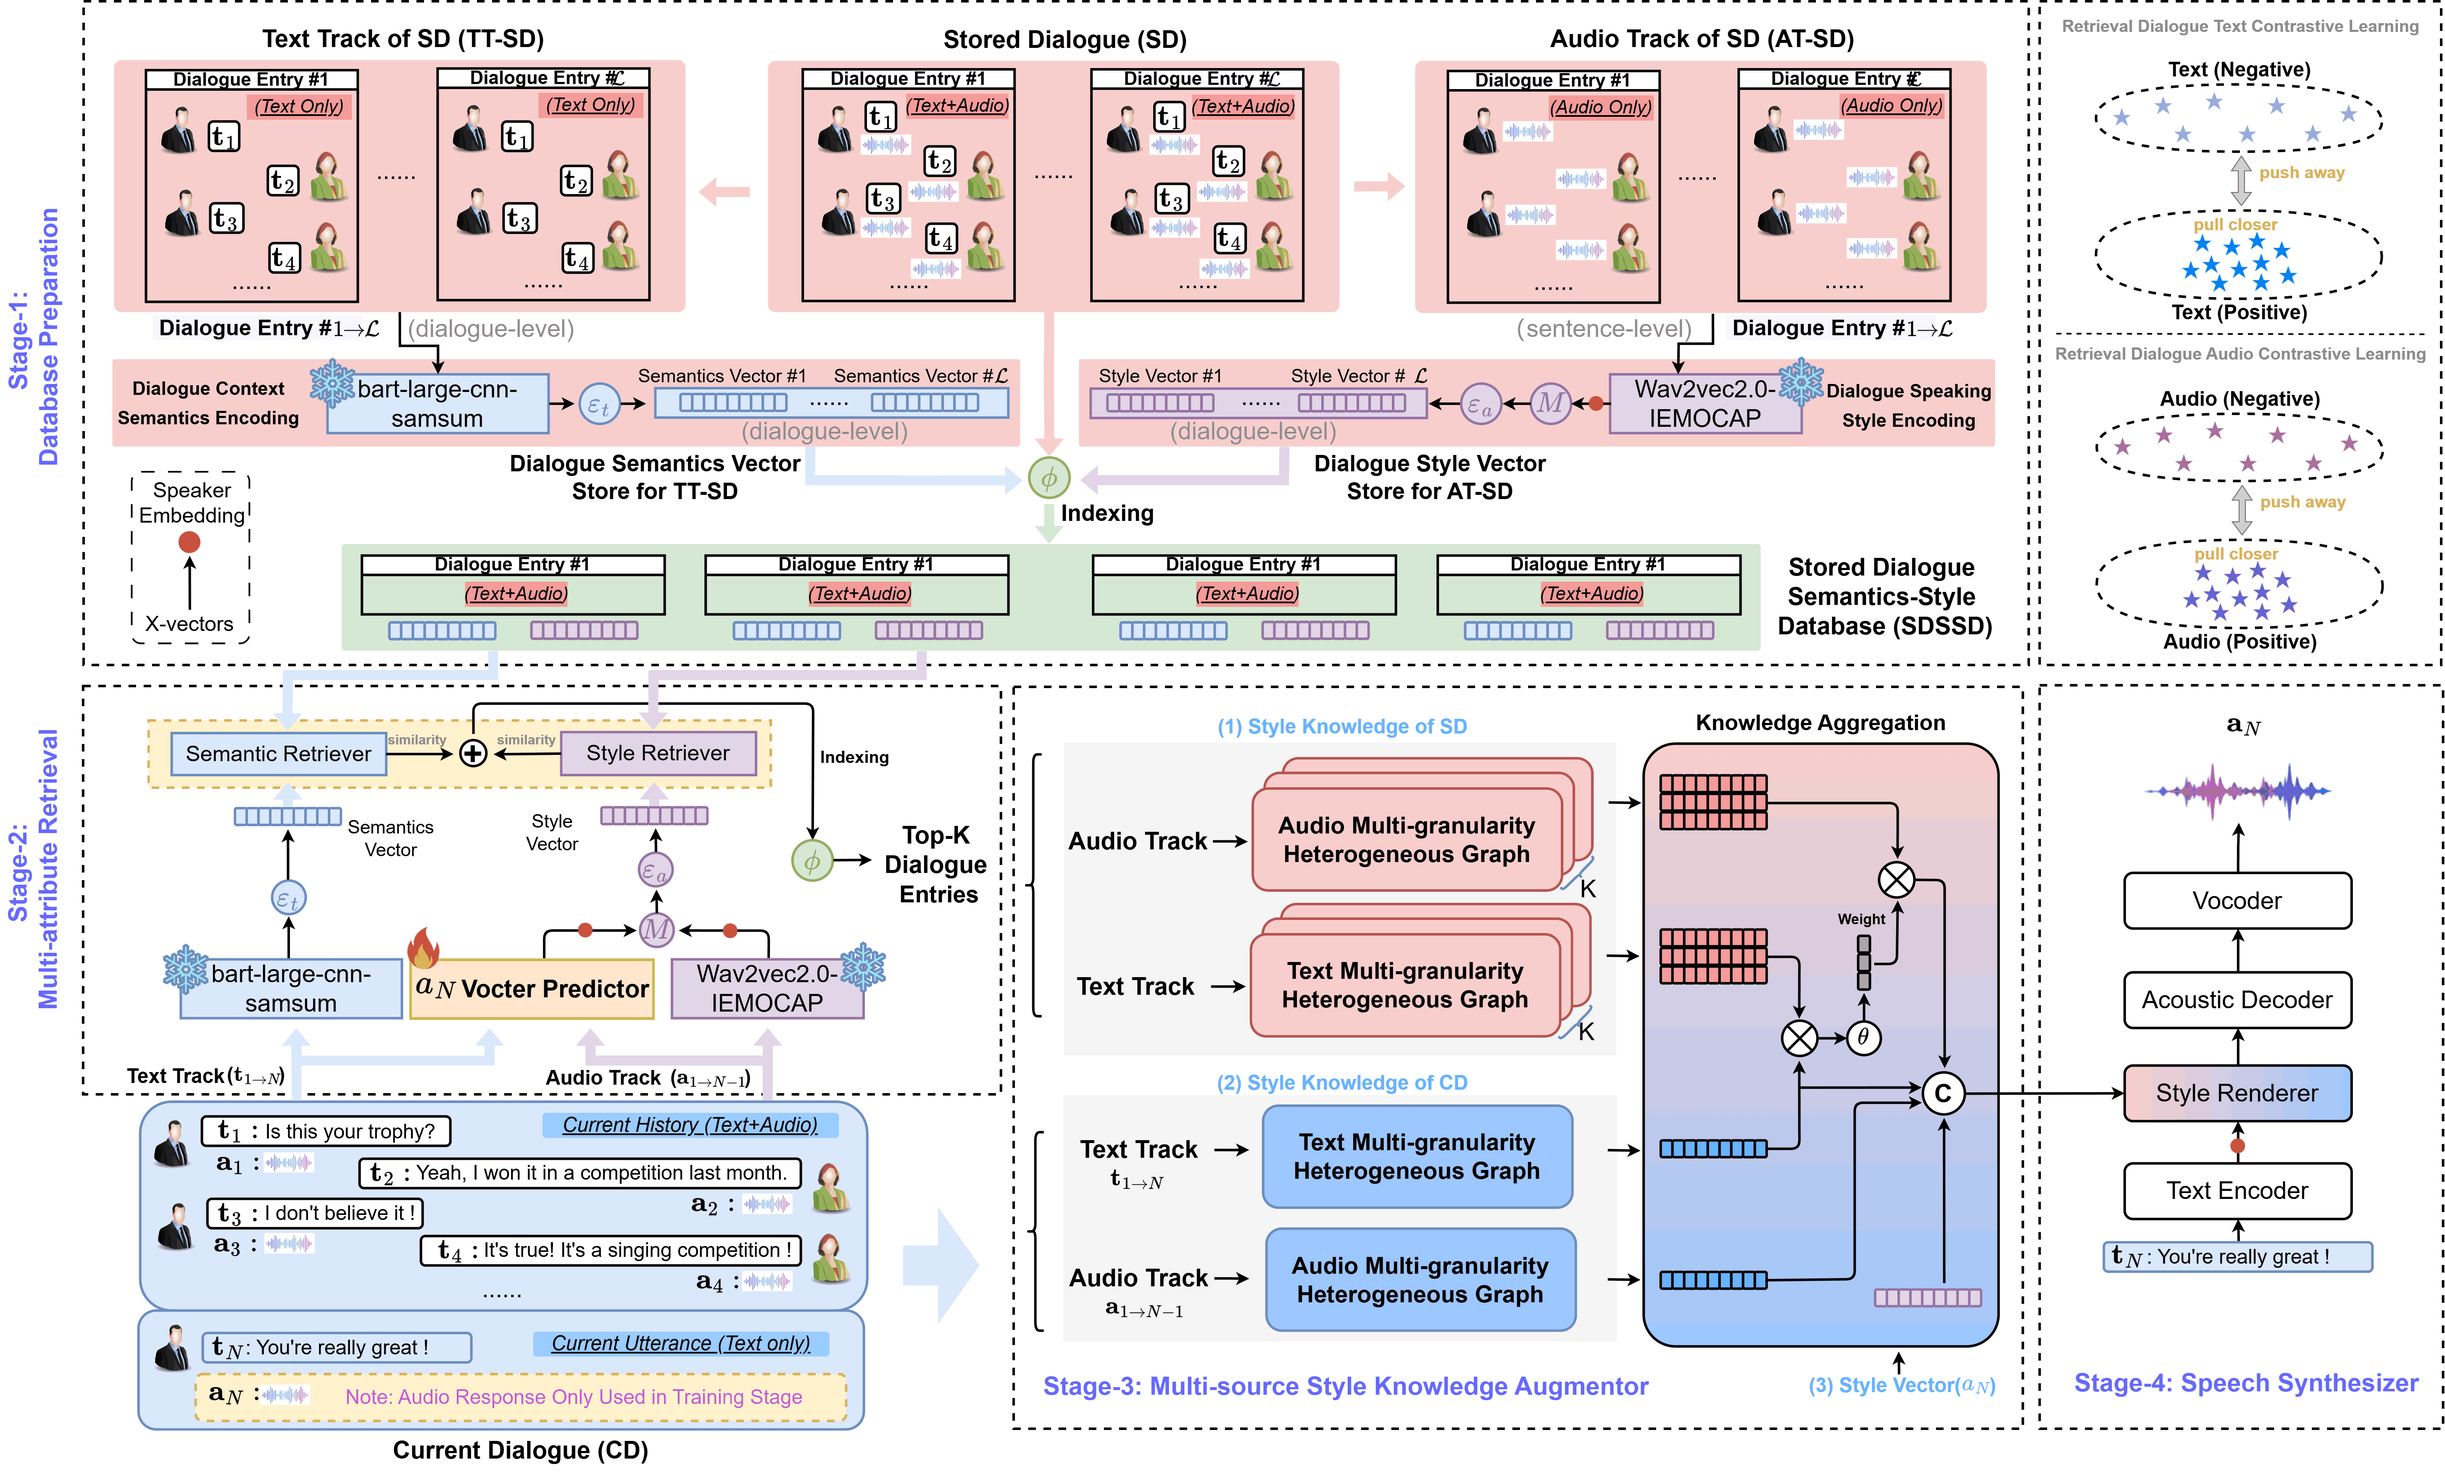
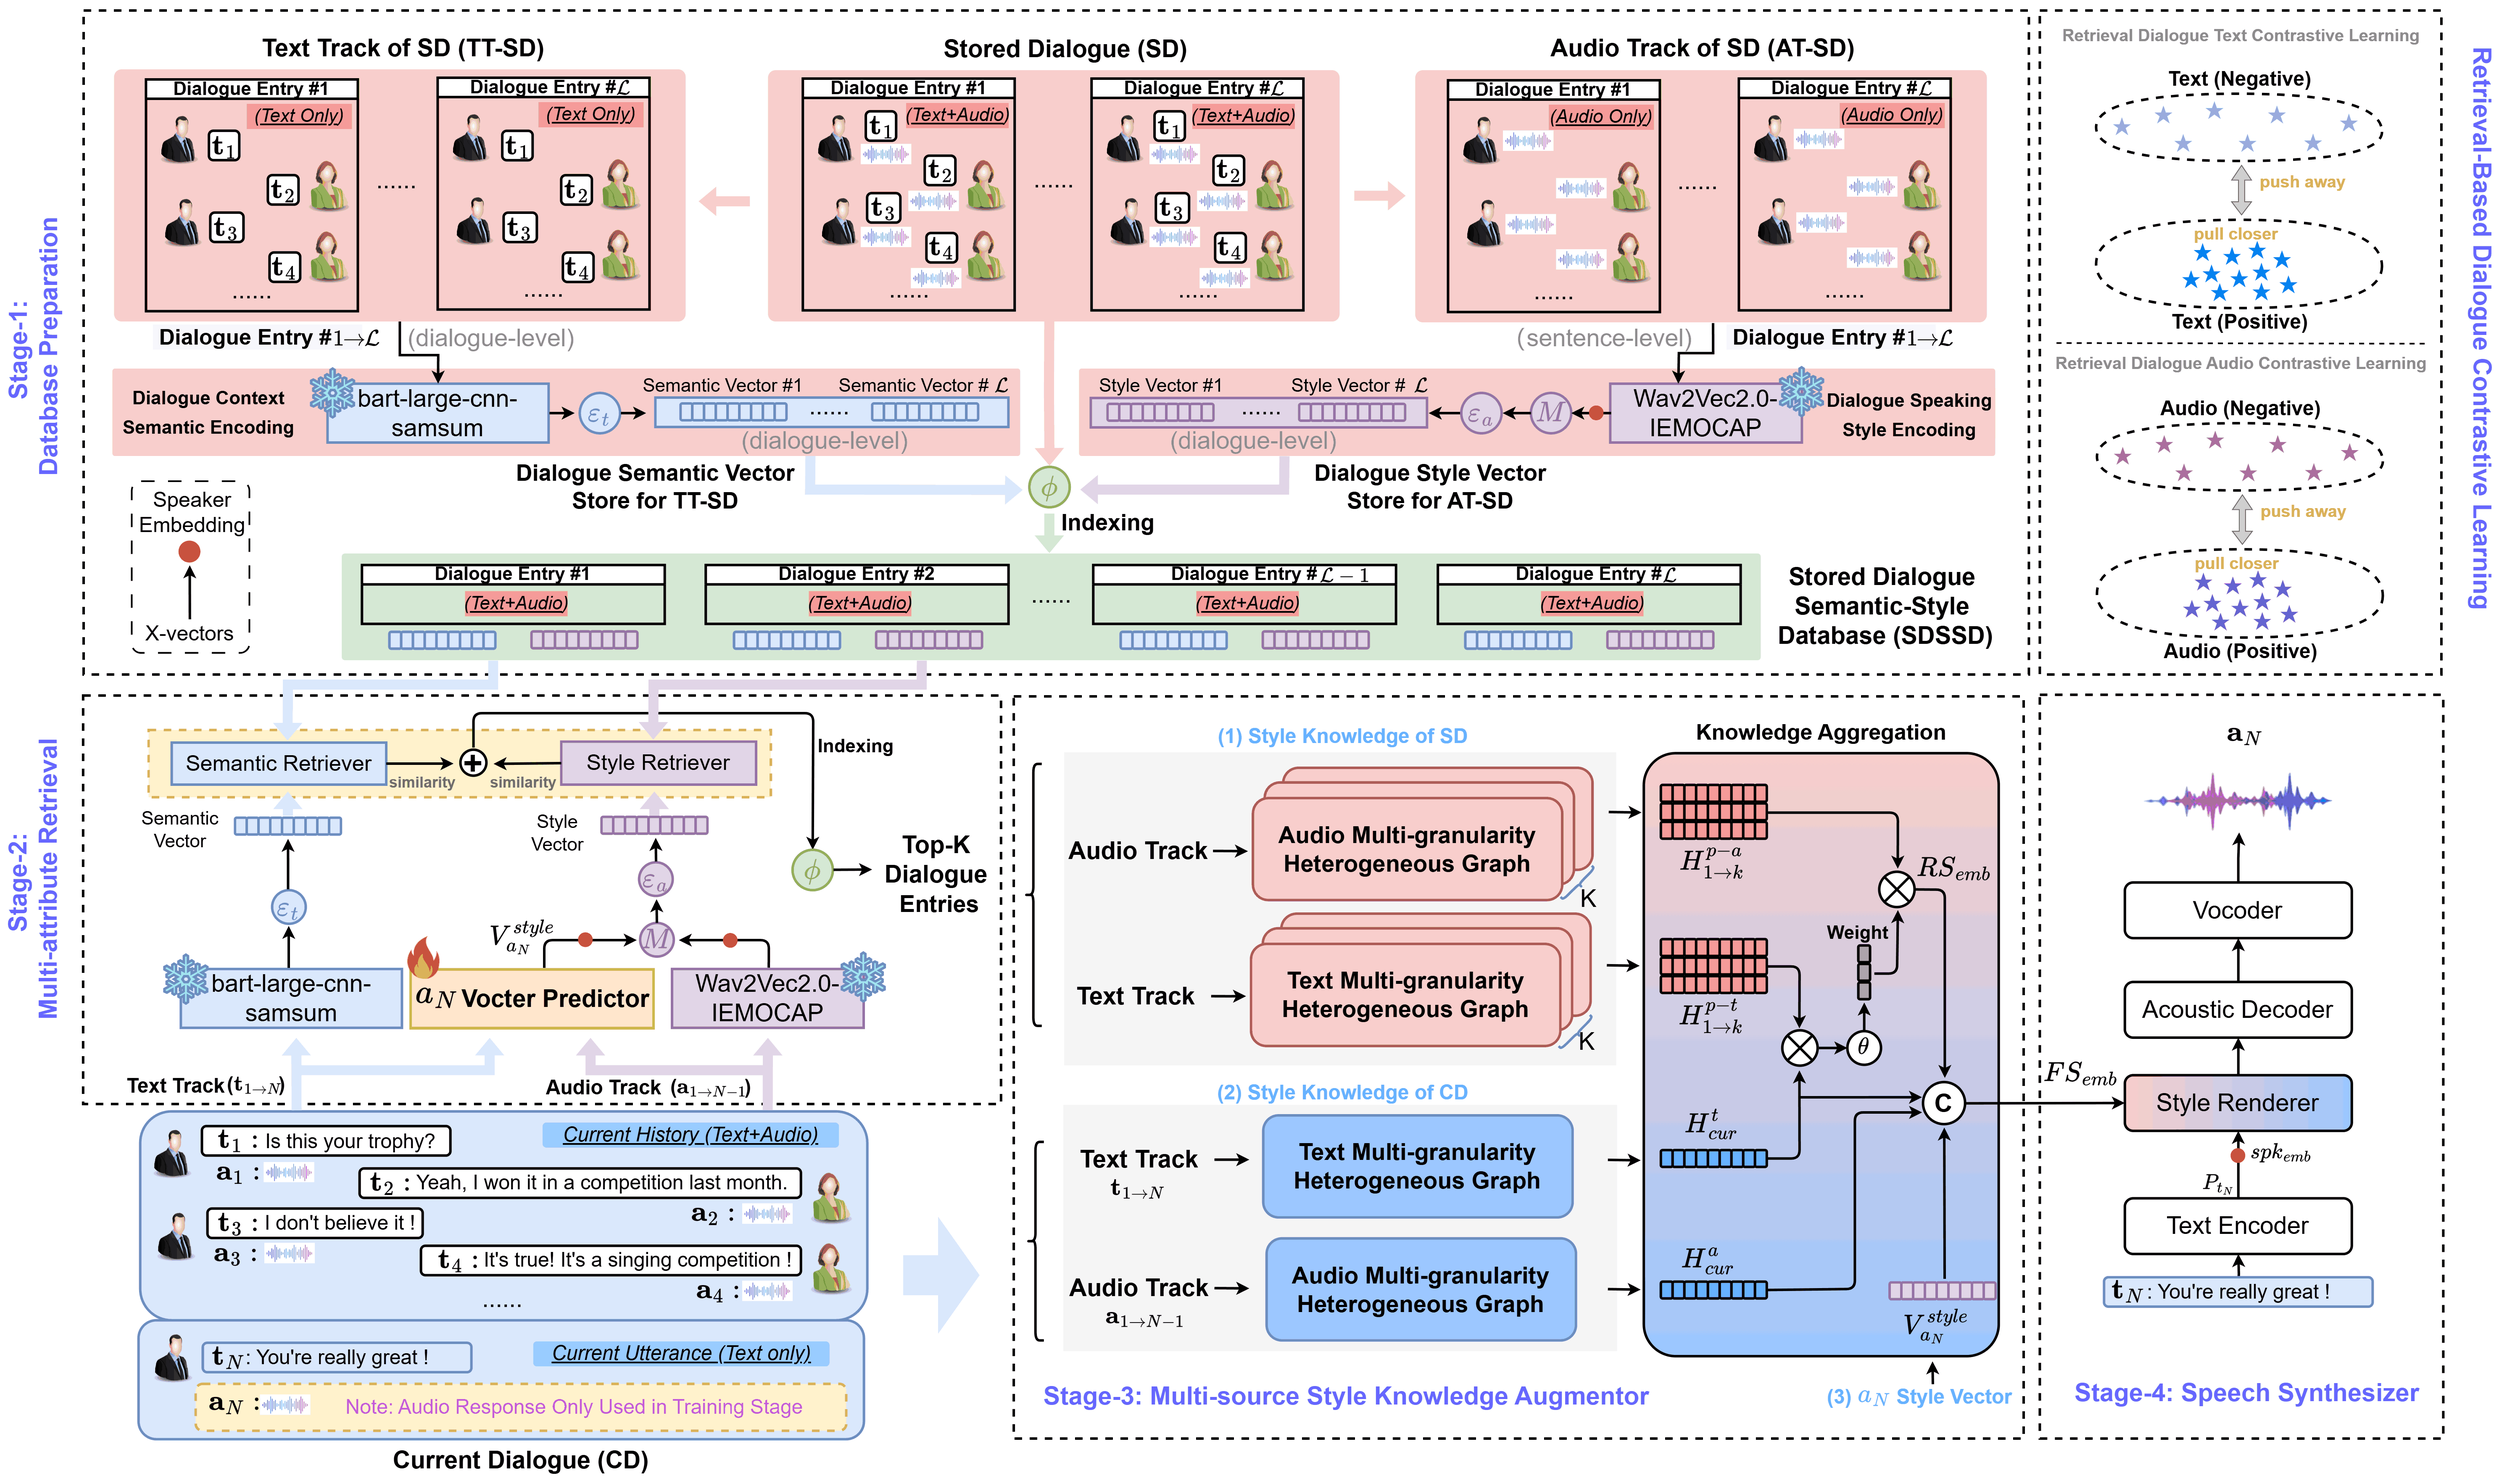
updated web

Changed region(s): [[0.0, 0.0, 1.0, 0.9954], [0.0, 0.4977, 0.0311, 0.6844], [0.8711, 0.5288, 0.9644, 0.5599]]

diff --git a/index.html b/index.html
@@ -22,7 +22,10 @@
 				<div class="section">
 					<div class="section-title">Abstract</div>
 					<div class="section-content abstract">
-						xxx
+						Conversational speech synthesis (CSS) aims to take the current dialogue history as reference to synthesize expressive speech that aligns with the conversational style. Unlike current dialogue (CD), stored dialogue (SD) contains preserved dialogue fragments from earlier stages of user-agent interaction, which include style expression knowledge relevant to scenarios similar to those in CD.
+						 Note that this knowledge plays a significant role in enabling the agent to synthesize expressive conversational speech that generates empathetic feedback. However, prior research has largely overlooked this aspect. To address this issue, we propose a novel Retrieval-Augmented Knowledge Aggregation scheme for expressive CSS, termed ReKA-CSS, which includes three main components: 1) To effectively retrieve dialogues from SD that are similar to CD in terms of both scenarios and style. In the first stage, we construct a stored dialogue semantic-style database (SDSSD) based on DailyTalk, which covers the text and audio content of each set of dialogues, as well as the semantic and style vectors of the dialogues. In the second stage, we design a multi-attribute retrieval method. First, to avoid incomplete dialogue style information due to the lack of an $a_N$ style vector, we design an $a_N$ vector predictor to predict the style vector for $a_N$. Then, the dialogue semantic and style vectors of CD are matched with the stored dialogue semantic and style vectors in SDSSD, retrieving the Top-K most similar dialogues based on combined semantic and style similarity. 2) To effectively utilize the multi-source knowledge from CD and SD, we design a multi-source style knowledge augmentor to integrate style knowledge of CD, style knowledge of SD, and the predicted $a_N$ style knowledge. 3) Finally, we feed the aggregated multi-source style knowledge into the speech synthesizer to help the CSS model synthesize expressive speech that aligns with the conversational style. Both objective and subjective evaluations demonstrate that our model outperforms baseline models in expressiveness rendering. Code and audio samples can be found at:
+						 <a href="https://github.com/Coder-jzq/ReKA-CSS">https://github.com/Coder-jzq/ReKA-CSS</a>
+						.
 					</div>
 				</div>
 				
@@ -31,7 +34,7 @@
 					<div class="section-content model">
 						<img src="./img/Fig2-ReKA-CSS-main-c.png" alt="" class="model-img">
 						
-						<p style="padding-top: 1rem; color: #a1a1a1; font-size: 1rem; text-align: center;">Figure: The overview of ReKA-CSS, that consists of Historical Dialogue History Knowledge Retrieving, Current Dialogue History Knowledge Modeling, Knowledge Aggregator, and Speech Synthesizer.</p>
+						<p style="padding-top: 1rem; color: #a1a1a1; font-size: 1rem; text-align: center;">Figure: Overview of our proposed ReKA-CSS model.</p>
 					</div>
 				</div>
 				
@@ -41,20 +44,20 @@
 					<div class="section-content experiments">
 						<!-- We develop four neural TTS systems for a  -->
 						 <strong>Comparative Experiment:</strong>
-						 </br> 1) <b>DailyTalk</b> is an advanced CTTS baseline. It proposes coarse-grained text context modeling in dialogue history to enhance speech expressiveness.
-						 </br> 2) <b>M²-CTTS</b> designs a textual context module and an acoustic context module with both coarse-grained and fine-grained modeling, generating speech with better prosody and naturalness.
-						 </br> 3) <b>Homogeneous Graph-based CSS</b> adopts the homogeneous graph to model the multi-modal context in conversation, inferring both the global and local speaking styles of the current utterance.
-						 </br> 4) <b>CONCSS</b> incorporates a contrastive learning module to ensure the discriminability of contextual features during dialogue history modeling.
-						 </br> 5) <b>ECSS</b> is an emotional expressive conversational speech synthesis model. It constructs multi-source knowledge into a heterogeneous graph and incorporates an emotion prediction task to synthesize emotionally expressive speech.
+						 </br> 1) <b>DailyTalk</b> incorporates a dialogue context encoder  into FastSpeech2 to model sentence-level text dialogue history.
+						 </br> 2) <b>M²-CTTS</b> designs a text context module and an acoustic context module, using both coarse-grained and fine-grained modeling. This approach aims to make full use of multimodal history to enhance prosodic expression in synthesized speech.
+						 </br> 3) <b>Homogeneous Graph-based CSS</b> proposes a context modeling method based on a Multi-Scale Relational Graph Convolutional Network (MSRGCN), which models dependencies among multimodal information in the context. This allows the model to learn dependencies in both global and local scales within dialogues, enhancing its ability to synthesize speaking style. The learned multi-scale, multimodal contextual information is then used to infer the global and local speaking style of the current utterance for speech synthesis.
+						 </br> 4) <b>CONCSS</b> introduces a CSS framework based on contrastive learning, which incorporates a negative-sample-enhanced sampling strategy to improve the discriminability of context vectors. This enables the model to perform self-supervised learning on unlabeled dialogue datasets, enhancing the model' s understanding of context.
+						 </br> 5) <b>ECSS</b> presents a new emotion CSS model based on heterogeneous graph-based emotion context modeling and an emotion rendering mechanism, ensuring accurate generation of emotional conversational speech in terms of both emotion understanding and expression.
 						 </br><strong>Ablation Experiment:</strong>
-						 </br> 1) <b>ReKA-CSS w/o Knowledge1 (检索知识)</b>, xxx.
-						 </br> 2) <b>ReKA-CSS w/o Knowledge2 (CD文本知识)</b>, xxx.
-						 </br> 3) <b>ReKA-CSS w/o Knowledge3 (CD音频知识)</b>, xxx.
-						 </br> 4) <b>ReKA-CSS w/o Knowledge4 (a_N 风格)</b>, xxx.
-						 </br> 5) <b>ReKA-CSS w/o 异构图</b>, xxx.
-						 </br> 6) <b>ReKA-CSS w/o 多尺度</b>, xxx.
-						 </br> 7) <b>ReKA-CSS w/o 知识聚合方法</b>, xxx.
-						 </br> 8) <b>ReKA-CSS w GT(检索内容为 GT)</b>, xxx.
+						 </br> 1) <b>Abl.1: w/o Style Knowledge (SD)</b> indicates the removal of similar dialogue knowledge retrieved from Stored Dialogue.
+						 </br> 2) <b>Abl.2: w/o Style Knowledge (CD: Text)</b> indicates that encoded textual knowledge from the current dialogue is not aggregated.
+						 </br> 3) <b>Abl.3: w/o Style Knowledge (CD: Audio)</b> indicates that encoded audio knowledge from the current dialogue is not aggregated.
+						 </br> 4) <b>Abl.4: w/o Style Knowledge ($a_N$ Style Vector)</b> indicates that the $a_N$ style knowledge predicted by the $a_N$ Vector Predictor is not aggregated.
+						 </br> 5) <b>Abl.5: w/o Heterogeneous Graph</b> replaces ReKA's heterogeneous graph with a homogeneous graph to verify the effectiveness of the proposed heterogeneous structure with three granularity levels of nodes and four types of relationships.
+						 </br> 6) <b>Abl.6: w/o Multi-granularity</b> removes the dialogue-level and word-level nodes, using only sentence-level nodes for training.
+						 </br> 7) <b>Abl.7: w/o Knowledge Aggregation Method</b> replaces the knowledge aggregation method with simple direct addition.
+						 </br> 8) <b>Abl.8: w/ GT (Retrieved)</b> uses the ground truth Top-K dialogue set instead of the Top-K dialogue set retrieved during inference.
 					
 					
 						
@@ -792,13 +795,13 @@
 					</div>
 				
 				
-					<div class="section-title">Case Study</div>
+					<div class="section-title" id="case-study">Case Study</div>
 					<div class="section-content case-study">
 						<p>
-							We present the current dialogue along with the Top 1, Top 2, Top 3, and Top 10 dialogues retrieved by ReKA-CSS that are most similar in conversational style to the current dialogue, as well as the Bottom 1, Bottom 2, Bottom 3, and Bottom 10 dialogues that are the least similar in conversational style.
+							We present the current dialogue along with the Top 1, Top 2, Top 3, and Top 10 dialogues retrieved by ReKA-CSS that are most similar in conversational style to the current dialogue, as well as the Bottom 1, Bottom 2, Bottom 3, and Bottom 10 dialogues that are the least similar in conversational style. The similarity  is calculated using cosine similarity.
 						</p>
 						<p>
-							The similarity between conversational styles is calculated using cosine similarity. We found that the scenes of dialogues with similar styles are remarkably similar to the current dialogue scene, while the scenes of dialogues with dissimilar styles are completely unrelated to the current dialogue scene. Additionally, in terms of subjective perception, it is easy to sense that the styles of the retrieved similar dialogues closely match the current dialogue, while dialogues with dissimilar styles are also distinctly different in terms of auditory perception.
+							CD belongs to a dialogue scenario about hotel room reservations. The dialogues ranked in the Top 1 and Top 10 are all related to hotel room reservations, while those in the Bottom 1 and Bottom 10 do not belong to the hotel reservation scenarios. Based on the audio analysis of these dialogues, the dialogue styles in Top 1 and Top 10 are very similar to CD, whereas the styles in Bottom 1 and Bottom 10 show significant differences.
 						</p>
 					</div>
 					<div class="section-content case-study" style="background-color: #f6f6f6;">
